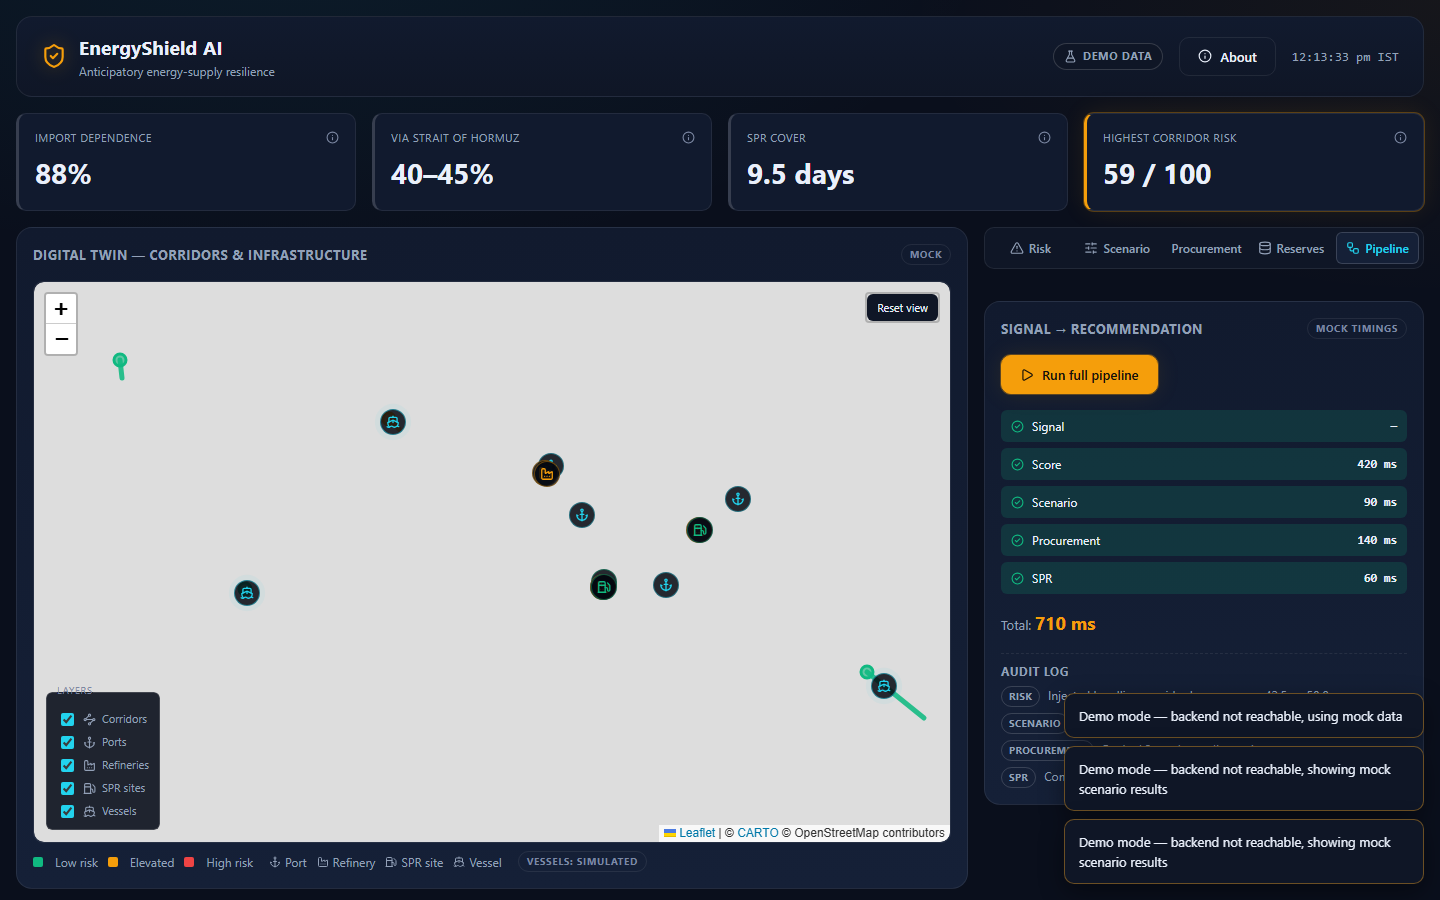
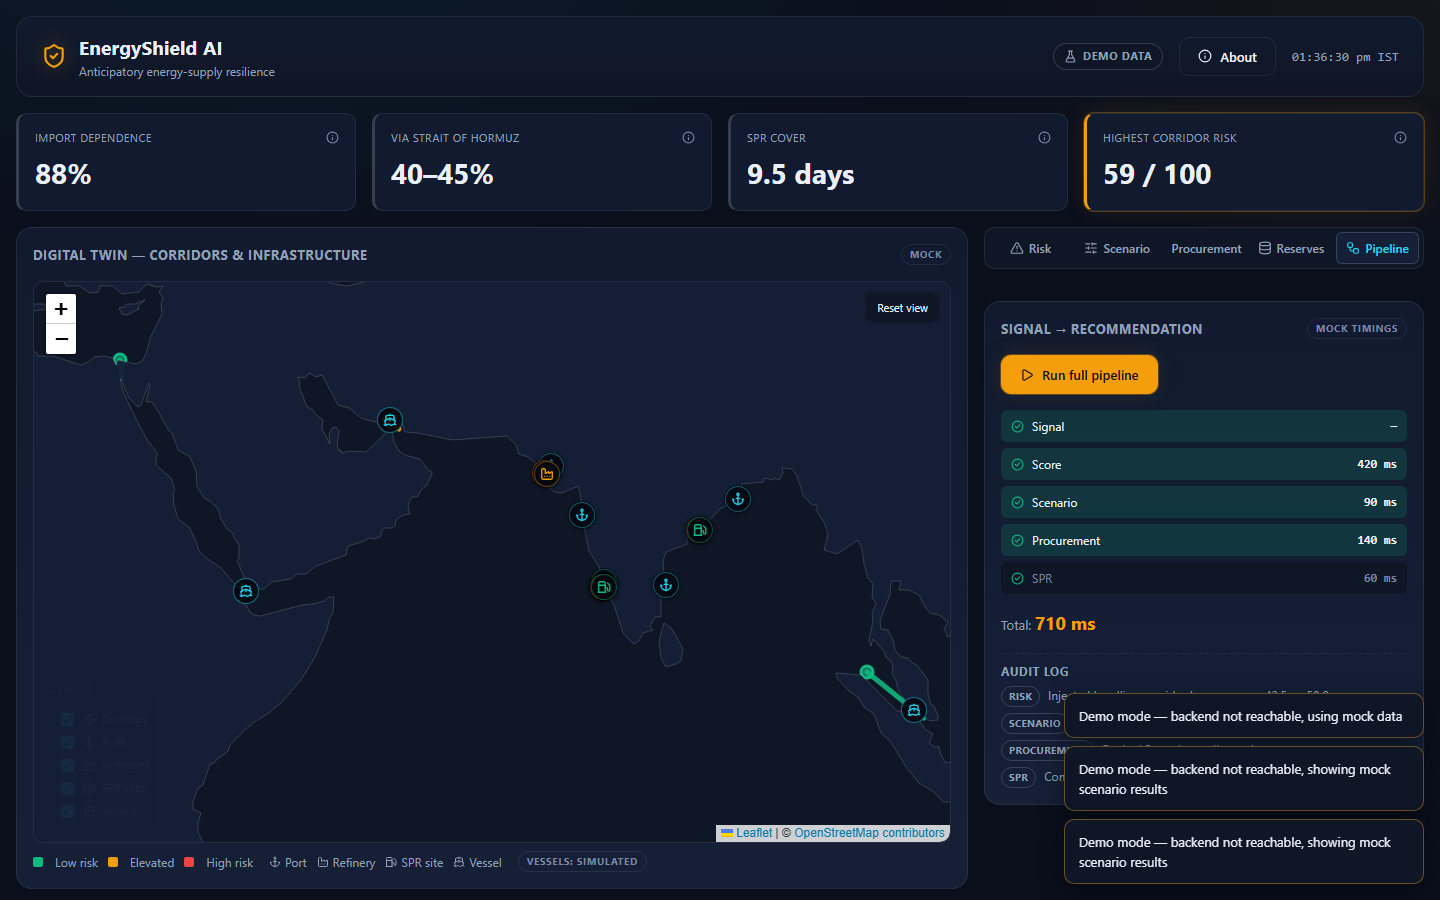
fix: use keyless basemap with offline fallback
CARTO's dark_all tiles now require an API key (were showing 'API KEY REQUIRED' watermarks). Switched to keyless OSM standard tiles (tile.openstreetmap.org, correct attribution), darkened via a CSS filter on the tile layer's own container (invert/hue-rotate/brightness/contrast/saturate) rather than a provider dark style, since those need a key. No key anywhere in the code.

Added resilience: after 4 tile load failures (debounced so one transient glitch doesn't trigger it), shows a toast ('Basemap tiles unavailable, showing offline outline') and renders a bundled Natural Earth 110m land outline (frontend/src/mock/world-simple.json, public domain, 127 features, 138KB) in a dark fill so the map stays readable offline. Corridors/ports/refineries/SPR sites/vessels render on top, unaffected.

Also bumped marker-icon contrast (box-shadow) and set a dark 'ocean' background on the map container at all times, not just during fallback.

Found and fixed a real bug while wiring the tileerror handler: react-leaflet binds TileLayer's eventHandlers once at mount and never rebinds them, so reading React state inside that handler always sees its stale initial value — the original guard (checking a tilesOffline state flag) never fired. Fixed by using the ref-based error counter itself as a one-shot guard (exact-equality check) instead, since refs aren't subject to closure staleness the way state reads are.
[…]

diff --git a/frontend/src/components/map/MapPanel.jsx b/frontend/src/components/map/MapPanel.jsx
@@ -1,18 +1,40 @@
-import { useMemo, useState } from "react";
-import { MapContainer, TileLayer, Polyline, CircleMarker, Marker, Tooltip } from "react-leaflet";
+import { useMemo, useRef, useState } from "react";
+import { MapContainer, TileLayer, GeoJSON, Polyline, CircleMarker, Marker, Tooltip } from "react-leaflet";
 import { CORRIDOR_LABELS, riskColorVar } from "../../lib/format.js";
 import { SkeletonBlock } from "../layout/Skeleton.jsx";
 import { EmptyState } from "../layout/EmptyState.jsx";
 import { ErrorState } from "../layout/ErrorState.jsx";
+import { useToast } from "../layout/ToastProvider.jsx";
 import { portIcon, refineryIcon, sprIcon, vesselIcon } from "./icons.js";
 import { useVesselRoute } from "./useVesselRoute.js";
 import { MapLegend } from "./MapLegend.jsx";
 import { LayerToggle } from "./LayerToggle.jsx";
 import { ResetViewControl } from "./ResetViewControl.jsx";
 import { CorridorDetailDrawer } from "./CorridorDetailDrawer.jsx";
+// Simplified world land outline (Natural Earth 1:110m, public domain),
+// used as an offline fallback when basemap tiles fail to load — see
+// handleTileError below. ~135KB.
+import worldLand from "../../mock/world-simple.json";
 
 const ARABIAN_SEA_CENTER = [15, 65];
 const DEFAULT_ZOOM = 4;
+
+// Tile loads can fail individually and recover (one slow/dropped tile is
+// normal even on good connections) — only treat it as "basemap is down"
+// after several failures in a short window, so a single hiccup doesn't
+// trigger the offline fallback.
+const TILE_FAILURE_THRESHOLD = 4;
+
+const WORLD_LAND_STYLE = {
+  fillColor: "var(--bg-panel-2)",
+  color: "var(--border-strong)",
+  weight: 1,
+  fillOpacity: 0.95,
+  // Distinguishes these paths from corridor polylines (both render as
+  // plain SVG <path> — this className is how scripts/smoke.mjs confirms
+  // the land fallback specifically rendered, not just "some path").
+  className: "world-land-path",
+};
 
 const DEFAULT_VISIBLE = { corridors: true, ports: true, refineries: true, sprSites: true, vessels: true };
 // Stable empty-array reference. `mapLayers?.vessels ?? []` would otherwise
@@ -31,6 +53,26 @@ const NO_VESSELS = [];
  */
 export function MapPanel({ mapLayers, riskCorridors, loading, error, selectedCorridorId, onSelectCorridor, onRetry }) {
   const [visible, setVisible] = useState(DEFAULT_VISIBLE);
+  const [tilesOffline, setTilesOffline] = useState(false);
+  const tileErrorCount = useRef(0);
+  const { show: showToast } = useToast();
+
+  function handleTileError() {
+    // react-leaflet binds eventHandlers once at TileLayer mount and doesn't
+    // rebind them on re-render, so this closure always sees the *initial*
+    // tilesOffline value (false) no matter how many renders have happened
+    // since — reading that state here would never see a flip. The ref-
+    // based counter doesn't have that problem (refs are mutated in place,
+    // not captured by value), so use strict equality against it as a
+    // one-shot guard instead of state. setTilesOffline/showToast themselves
+    // are unaffected by the stale closure: the setter functions are stable
+    // across renders regardless of which render's closure calls them.
+    tileErrorCount.current += 1;
+    if (tileErrorCount.current === TILE_FAILURE_THRESHOLD) {
+      setTilesOffline(true);
+      showToast("Basemap tiles unavailable, showing offline outline", { tone: "warn" });
+    }
+  }
 
   const corridorWaypointsById = useMemo(() => {
     const map = {};
@@ -75,11 +117,23 @@ export function MapPanel({ mapLayers, riskCorridors, loading, error, selectedCor
               scrollWheelZoom
               style={{ height: "560px", width: "100%", borderRadius: "var(--radius)" }}
             >
+              {/* Keyless OSM standard tiles, no API key required. Darkened to
+                  match the control-room theme via a CSS filter on the tile
+                  pane (see .map-tile-pane-dark in index.css) rather than a
+                  provider-side dark style, since those need a key. */}
               <TileLayer
-                attribution='&copy; <a href="https://carto.com/">CARTO</a> &copy; OpenStreetMap contributors'
-                url="https://{s}.basemaps.cartocdn.com/dark_all/{z}/{x}/{y}{r}.png"
+                className="map-tile-pane-dark"
+                attribution='&copy; <a href="https://www.openstreetmap.org/copyright">OpenStreetMap contributors</a>'
+                url="https://tile.openstreetmap.org/{z}/{x}/{y}.png"
+                eventHandlers={{ tileerror: handleTileError }}
               />
               <ResetViewControl center={ARABIAN_SEA_CENTER} zoom={DEFAULT_ZOOM} />
+
+              {/* Offline fallback: a simplified world land outline, shown
+                  only once tile loads have actually failed repeatedly.
+                  Rendered before the corridors/markers below so they stay
+                  on top of it. */}
+              {tilesOffline && <GeoJSON data={worldLand} style={WORLD_LAND_STYLE} interactive={false} />}
 
               {visible.corridors &&
                 mapLayers.corridors.map((corridor) => (

diff --git a/frontend/src/index.css b/frontend/src/index.css
@@ -648,6 +648,20 @@ a {
   border: 1px solid var(--border);
 }
 
+/* Dark "ocean" background behind tiles/land fallback at all times, not
+   just while tiles are loading — avoids a flash of light grey. */
+.leaflet-container {
+  background: var(--bg-raised);
+}
+
+/* OSM's standard tiles are keyless but light-themed; invert + rotate hue
+   to approximate a dark control-room basemap without a provider-side
+   dark style (those need an API key). Applied to the tile layer's own
+   container via its `className` prop, not the whole shared tile pane. */
+.map-tile-pane-dark {
+  filter: invert(1) hue-rotate(180deg) brightness(0.85) contrast(0.9) saturate(0.6);
+}
+
 .map-emoji-icon-wrapper {
   background: transparent;
   border: none;
@@ -660,9 +674,12 @@ a {
   width: 26px;
   height: 26px;
   border-radius: 50%;
-  background: rgba(5, 8, 16, 0.85);
+  background: rgba(5, 8, 16, 0.92);
   border: 1px solid var(--border-strong);
   color: var(--text-dim);
+  /* Extra separation from the basemap/land-fallback background, which
+     can otherwise be a similar dark tone right under a marker. */
+  box-shadow: 0 0 0 1px rgba(0, 0, 0, 0.4), 0 1px 4px rgba(0, 0, 0, 0.5);
 }
 
 .map-emoji-icon--port {
